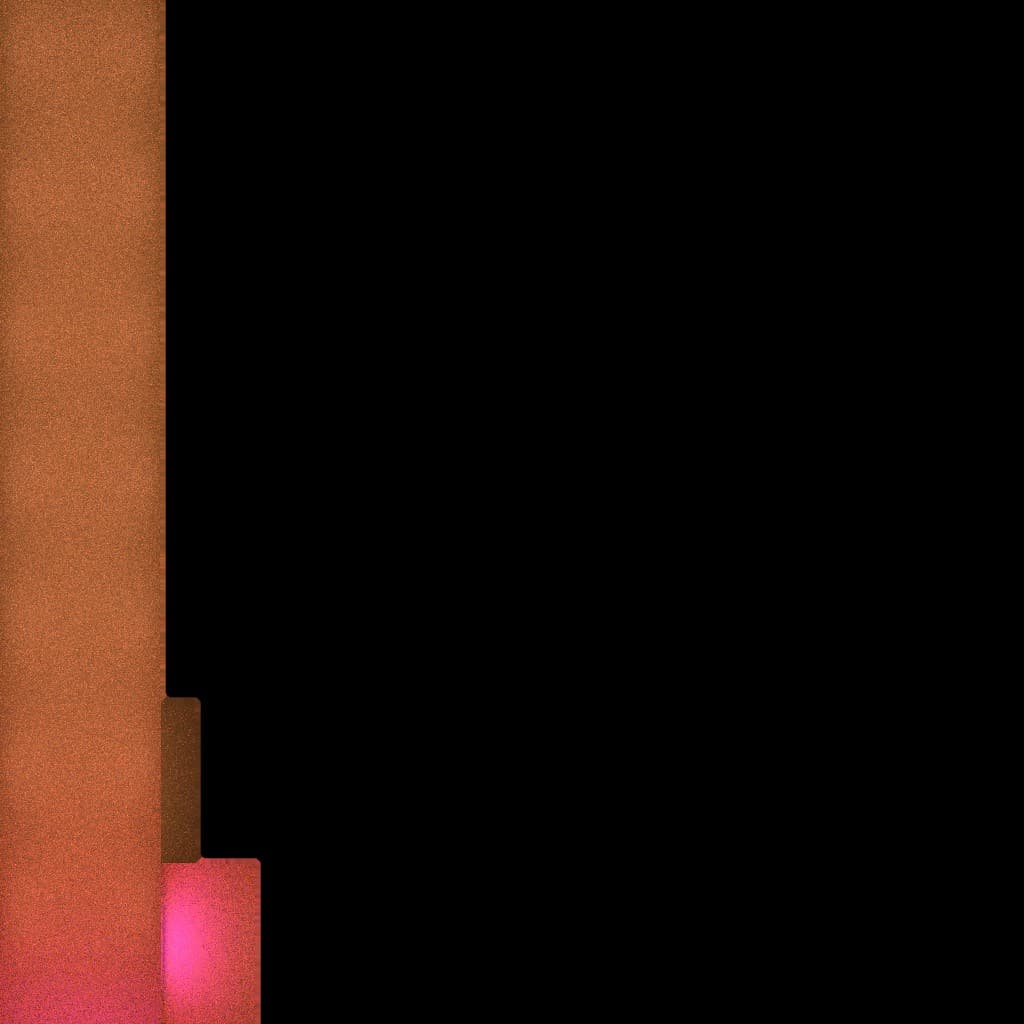
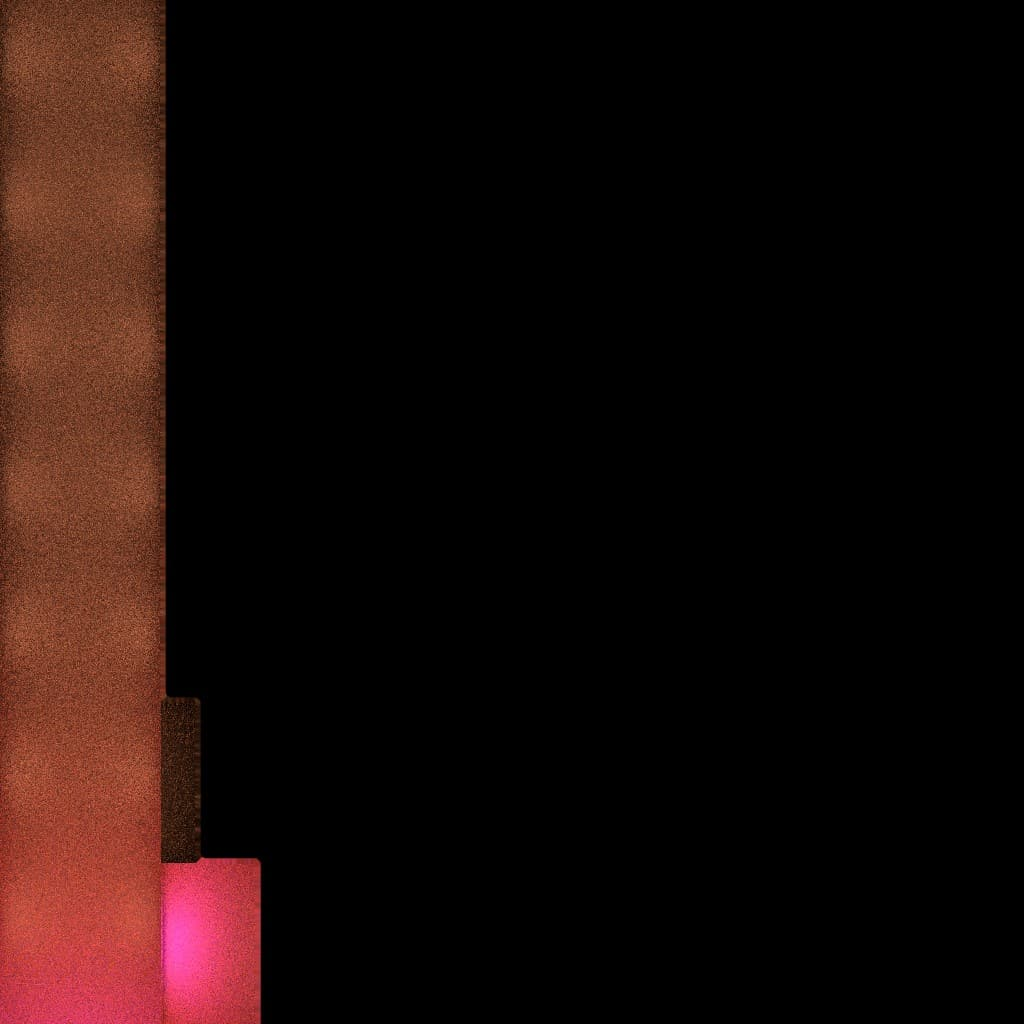
Stairwell: hooded step lights + wooden ceiling beams, dark-lens poster spots

Changed region(s): [[0.0, 0.0, 0.25, 1.0]]

diff --git a/src/entrance/world.ts b/src/entrance/world.ts
@@ -221,8 +221,9 @@ export function buildWorld(): World {
   for (let i = 0; i < N; i++) steps.setMatrixAt(i, m4.makeTranslation(0, i * RISE + RISE / 2, Z0 - i * RUN - RUN / 2));
   scene.add(steps); unbaked.push(steps);
 
-  // Gallery lighting (blender/stairwell.py bakes it): a dark stairwell where every poster has its own warm spotlight,
-  // small warm step lights in both walls every third step, the orange roof-door frame and a small pink EPPING above it.
+  // Gallery lighting (blender/stairwell.py bakes it): a dark stairwell under dark wooden beams where every poster has its
+  // own warm spotlight (dark lenses), round hooded step lights in both walls every third step, the orange roof-door frame
+  // and a small pink EPPING above it.
   // Nothing here pulses with the beat except that pink sign.
   const cy = (z: number) => (z > Z0 ? 0 : z < TOP_Z ? TOP_Y : stairY(z)) + CEIL;
   const ceilPts = [IN, Z0, TOP_Z, ROOF_Z];
@@ -245,10 +246,20 @@ export function buildWorld(): World {
     const x = side * (W / 2 - 0.14), h = (z: number) => (z > Z0 ? 0 : z < TOP_Z ? TOP_Y : stairY(z)) + 0.9;
     scene.add(tube(new THREE.Vector3(x, h(Z0), Z0), new THREE.Vector3(x, h(TOP_Z), TOP_Z), 0.024, railMat));
   }
-  // step lights: small warm slots in both walls, every third step (same spots as in the bake)
-  const slotGeo = new THREE.BoxGeometry(0.01, 0.03, 0.12), slotMat = glowMat(C('#ffa860').multiplyScalar(0.95));
+  // step lights: a round black disc with a hood in both walls, every third step, glowing only underneath (same spots as in the bake)
+  const discGeo = new THREE.CylinderGeometry(0.05, 0.05, 0.016, 24), hoodGeo = new THREE.CylinderGeometry(0.05, 0.05, 0.035, 24, 1, true, 0, Math.PI);
+  const lensGeo = new THREE.CircleGeometry(0.036, 24, Math.PI, Math.PI), stepLens = glowMat(C('#ffb36b').multiplyScalar(1.1));
   for (let i = 1; i < N; i += 3) for (const side of [-1, 1]) {
-    const slot = new THREE.Mesh(slotGeo, slotMat); slot.position.set(side * (W / 2 - 0.004), (i + 1) * RISE + 0.18, Z0 - i * RUN - RUN / 2); scene.add(slot);
+    const x = side * W / 2, y = (i + 1) * RISE + 0.18, z = Z0 - i * RUN - RUN / 2;
+    const disc = new THREE.Mesh(discGeo, railMat); disc.position.set(x - side * 0.008, y, z); disc.rotation.z = Math.PI / 2;
+    const hood = new THREE.Mesh(hoodGeo, railMat); hood.position.set(x - side * 0.03, y + 0.002, z); hood.rotation.set(side > 0 ? 0 : Math.PI, 0, Math.PI / 2);
+    const lens = new THREE.Mesh(lensGeo, stepLens); lens.position.set(x - side * 0.017, y - 0.004, z); lens.rotation.y = -side * Math.PI / 2;
+    scene.add(disc, hood, lens);
+  }
+  // dark wooden beams across the ceiling (three.js only, not in the bake)
+  const beamGeo = new THREE.BoxGeometry(W, 0.13, 0.1), beamMat = new THREE.MeshStandardMaterial({ color: C('#2b1c14'), emissive: C('#1a0f0a'), roughness: 0.8 });
+  for (let z = IN - 0.3; z > ROOF_Z + 0.2; z -= 0.75) {
+    const beam = new THREE.Mesh(beamGeo, beamMat); beam.position.set(0, cy(z) - 0.065, z); scene.add(beam);
   }
 
   // live light until the bake is in: a dim warm glow along the ceiling
@@ -269,7 +280,7 @@ export function buildWorld(): World {
   }
 
   // posters: a pair at each spot, one on each wall, facing each other, hung high above the balustrade
-  const loader = new THREE.TextureLoader(), lensMat = glowMat(C('#ffd8b0').multiplyScalar(1.4));
+  const loader = new THREE.TextureLoader();
   POSTERS.forEach((pair, i) => {
     const z = lerp(Z0 - 0.9, TOP_Z + 0.6, i / Math.max(1, POSTERS.length - 1));
     pair.forEach(({ src, aspect = 1 }, s) => {
@@ -282,11 +293,10 @@ export function buildWorld(): World {
         m.position.set(side * (W / 2 - off), stairY(z) + 1.95, z);
         scene.add(m);
       }
-      const h = stairY(z) + 1.95, at = new THREE.Vector3(side * (W / 2 - 0.6), h + 0.8, z);
+      const h = stairY(z) + 1.95, at = new THREE.Vector3(side * (W / 2 - 0.35), h + 0.9, z); // short arm, dark lens: nothing white overhead
       const dir = new THREE.Vector3(side * W / 2, h - 0.08, z).sub(at).normalize();
-      scene.add(tube(new THREE.Vector3(side * W / 2, h + 0.8, z), at, 0.008, railMat));
-      scene.add(tube(at.clone().addScaledVector(dir, -0.04), at.clone().addScaledVector(dir, 0.08), 0.035, railMat));
-      scene.add(tube(at.clone().addScaledVector(dir, 0.08), at.clone().addScaledVector(dir, 0.083), 0.028, lensMat));
+      scene.add(tube(new THREE.Vector3(side * W / 2, h + 0.9, z), at, 0.007, railMat));
+      scene.add(tube(at.clone().addScaledVector(dir, -0.04), at.clone().addScaledVector(dir, 0.08), 0.032, railMat));
     });
   });
 

diff --git a/blender/stairwell.py b/blender/stairwell.py
@@ -1,8 +1,8 @@
 # Builds the stairwell in Blender, bakes its light into lightmaps and exports public/models/stairwell.glb
 # + public/models/lightmaps/stair_*.jpg. Same measurements as src/entrance/world.ts.
 # Gallery lighting: a dark stairwell where each poster has its own warm spotlight (spilling onto the bricks around
-# it), small warm step lights set into the walls every third step, the orange frame around the roof door and a small
-# pink EPPING above it. The emitters are bake-only: three.js draws its own versions; the .glb holds the lit surfaces
+# it), small round hooded step lights in both walls every third step (light only goes down, onto the treads), the
+# orange frame around the roof door and a small pink EPPING above it. The dark wooden ceiling beams are three.js only. The emitters are bake-only: three.js draws its own versions; the .glb holds the lit surfaces
 # (walls, steps, ceiling, roof door).
 # Run: blender -b --factory-startup --python blender/stairwell.py   (add -- --quick for a fast test bake)
 #
@@ -57,11 +57,10 @@ PANEL = mat('ceil_panel', (0.05, 0.04, 0.04), 0.9)           # plain dark ceilin
 DOOR = mat('roof_door', (0.025, 0.024, 0.027), 0.8)          # plain matte black
 HANDLE = mat('roof_handle', (0.6, 0.6, 0.62), 0.25)           # baked matte (metal has no diffuse light); three.js makes it metal
 WARM = (1.0, 0.62, 0.32)                                      # step lights (sRGB)
-STEPL = mat('glow_step', (0, 0, 0), 1, 0, emit=srgb2lin(WARM), strength=12.0)
 SIGN = mat('glow_sign', (0, 0, 0), 1, 0, emit=srgb2lin(PINK), strength=3.0)
 FRAME = mat('glow_frame', (0, 0, 0), 1, 0, emit=srgb2lin(ORANGE), strength=10.0)
 BAKED = ['stair_brick', 'stair_floor', 'ceil_panel', 'roof_door', 'roof_handle']   # exported + baked
-EMITTERS = ['glow_step', 'glow_sign', 'glow_frame']                              # bake-only
+EMITTERS = ['glow_sign', 'glow_frame']                              # bake-only
 
 # ---------------------------------------------------------------- mesh building (faces collected per object)
 meshes = {}
@@ -120,13 +119,13 @@ for i in range(N):
     face('floor', FLOOR, [(-W / 2, y1, zf), (W / 2, y1, zf), (W / 2, y1, zb), (-W / 2, y1, zb)][::-1])  # tread, faces up
 face('floor', FLOOR, [(-W / 2, TOP_Y, TOP_Z), (W / 2, TOP_Y, TOP_Z), (W / 2, TOP_Y, ROOF_Z), (-W / 2, TOP_Y, ROOF_Z)][::-1])
 
-# ---------------------------------------------------------------- step lights in both walls, every third step (bake-only emitters + a small light each)
+# ---------------------------------------------------------------- hooded step lights in both walls, every third step (a spot each, aimed down onto the treads)
 STEP_LIGHTS = []
 for i in range(1, N, 3):
     z, y = Z0 - i * RUN - RUN / 2, (i + 1) * RISE + 0.18
     for side in (-1, 1):
-        box('steplight', STEPL, (side * (W / 2 - 0.004), y, z), (0.01, 0.03, 0.12))
-        STEP_LIGHTS.append((side * (W / 2 - 0.06), y - 0.01, z))
+        x = side * W / 2
+        STEP_LIGHTS.append(((x - side * 0.04, y - 0.01, z), (x - side * 0.45, y - 0.42, z)))
 
 # ---------------------------------------------------------------- ceiling: one plain dark surface following the stairs
 for k in range(3):
@@ -140,7 +139,7 @@ SPOTS = []
 for i in range(NPOST):
     z = lerp(Z0 - 0.9, TOP_Z + 0.6, i / (NPOST - 1)); h = stair_y(z) + 1.95
     for side in (-1, 1):
-        SPOTS.append(((side * (W / 2 - 0.6), h + 0.8, z), (side * W / 2, h - 0.08, z)))
+        SPOTS.append(((side * (W / 2 - 0.35), h + 0.9, z), (side * W / 2, h - 0.08, z)))   # the dark-lens fixtures in world.ts
 
 # pink EPPING sign above the roof door (three.js draws the letters; this is its glow on the bricks)
 box('sign', SIGN, (0, TOP_Y + 2.52, ROOF_Z + 0.03), (0.8, 0.16, 0.02))
@@ -165,8 +164,8 @@ def add_light(kind, name, pos, energy, color, size, aim=None, spot=None):
     if aim: ob.rotation_euler = (T(*aim) - T(*pos)).to_track_quat('-Z', 'Y').to_euler()
 for k, (pos, aim) in enumerate(SPOTS):
     add_light('SPOT', f'spot{k}', pos, 40, (1.0, 0.85, 0.69), 0.05, aim, (math.radians(72), 1.0))
-for k, pos in enumerate(STEP_LIGHTS):
-    add_light('POINT', f'step{k}', pos, 1.2, WARM, 0.02)
+for k, (pos, aim) in enumerate(STEP_LIGHTS):
+    add_light('SPOT', f'step{k}', pos, 8, WARM, 0.02, aim, (math.radians(115), 1.0))
 
 for name, (bm, m, _) in meshes.items():
     bm.normal_update()

diff --git a/AGENTS.md b/AGENTS.md
@@ -39,7 +39,7 @@ Website for Epping: DJ and party organizer. (`CLAUDE.md` is a symlink to this fi
   - Next: user's FAQ answers (price range, area, gear, max guests, requests, lead time), then build site basics on a branch.
 
 ## Status (2026-10-09, evening)
-- **Stairwell gallery (branch `stairwell-gallery`, 2026-10-11, not merged):** user found the neon stairs too flashy; picked option B "gallery" (options page https://claude.ai/artifact/B1TUYAyapxwA73Zsh6fne5). Re-baked `blender/stairwell.py` (~4 min): a warm spot per poster (14), warm step lights in both walls every third step, plain dark ceiling, orange roof-door frame, small pink EPPING above the roof door. world.ts: neon noses/balusters/ceiling grid gone, black steel balusters + spot fixtures, polished dark steps (roughness 0.3: lower shows the street sign's highlight), nothing pulses except that pink sign; the street sign light fades out in the doorway. Preview (teaser off): https://claude.ai/artifact/TjMRGJeTgN3kM2P2CpyioG. Branch `cats` has a stash (TEASER=false + stair MOCKUP-TEMP hooks): `git stash pop` there. Merge on the user's go. **Round 3 (2026-10-11):** user dislikes the wall-slot step lights and the white spot lenses on the ceiling; options S1 round hooded, S2 handrail glow, S3 skirting line, S4 brass louvre; C1 recessed, C2 picture lights, C3 track, C4 dark lenses, C5 Amsterdam beams, at the top of https://claude.ai/artifact/B1TUYAyapxwA73Zsh6fne5 (`gallery.cjs` in stair-options; test bake without step lights in untracked `public/models/lightmaps-nostep/`, delete after; MOCKUP-TEMP hooks + TEASER=false stashed on this branch: `git stash list`, pop the "round 3" one to reshoot). **Pick up here:** user picks a step light + ceiling (Claude's pick: S1 + C2), then re-bake stairwell.py, update world.ts, delete `lightmaps-nostep/`, build, republish the preview.
+- **Stairwell gallery (branch `stairwell-gallery`, 2026-10-11, not merged):** user found the neon stairs too flashy; picked option B "gallery" (options page https://claude.ai/artifact/B1TUYAyapxwA73Zsh6fne5). Re-baked `blender/stairwell.py` (~4 min): a warm spot per poster (14), warm step lights in both walls every third step, plain dark ceiling, orange roof-door frame, small pink EPPING above the roof door. world.ts: neon noses/balusters/ceiling grid gone, black steel balusters + spot fixtures, polished dark steps (roughness 0.3: lower shows the street sign's highlight), nothing pulses except that pink sign; the street sign light fades out in the doorway. Preview (teaser off): https://claude.ai/artifact/TjMRGJeTgN3kM2P2CpyioG. Branch `cats` has a stash (TEASER=false + stair MOCKUP-TEMP hooks): `git stash pop` there. Merge on the user's go. **Round 3 done (2026-10-15):** user picked S1 + C5: round black hooded step lights (every third step, both walls; baked as downward spots, 8 W) + dark wooden ceiling beams every 0.75 m (three.js only, faint emissive) + poster spots with short arms and dark lenses (no white on the ceiling). Re-baked, `lightmaps-nostep/` deleted. Preview (teaser off) republished: https://claude.ai/artifact/TjMRGJeTgN3kM2P2CpyioG. Branch `stairwell-gallery` still has the old round-3 MOCKUP-TEMP stash (drop it once the user approves). **Pick up here:** user's feedback on the preview, then merge on their go.
 - **Pick up here (2026-10-10):** sitemap, robots.txt, Search Console tag + structured data LIVE. Open: (1) Search Console showed "Sitemap could not be read" right after submitting (files are fine; user to wait a day, also submit `sitemap-0.xml`, request indexing via URL inspection; if still failing after 2–3 days, look again); (2) user runs Rich Results Test on a product page; (3) Bing Webmaster via "Import from Google Search Console"; (4) Google Business Profile link → add to `sameAs` in `src/lib/schema.ts`. Then: SEO copy tweaks/reviews block, Dutch search terms.
 - **Pick up here (2026-10-09):** English copy + Dutch product pages LIVE. SEO track in progress:
   - FAQ input doc (user's facts): https://claude.ai/code/artifact/deba7bbf-ff63-4235-a541-3c48295ee34f. No prices on the site (quote-based; the user's hourly rate stays private). KvK 98899759, business name Epping Music, invoices without VAT, references on request.
